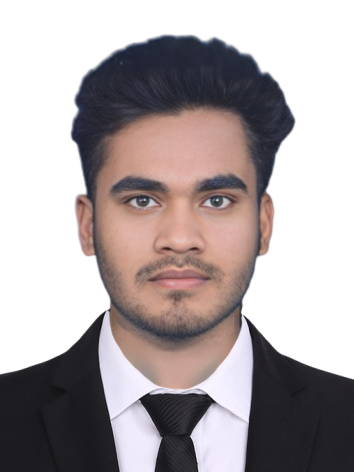
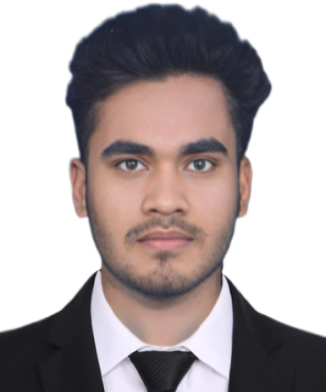
Oulining changes

diff --git a/src/Experience.js b/src/Experience.js
@@ -7,19 +7,19 @@ function Experience() {
     <div className='experience' id='experience' ><hr></hr><h1>Experience</h1>
         <div><h2 className='post'>CO-FOUNDER & CTO</h2>
             AM Hostel
-            <p className='description'>A academic startup to build India largest academic hostel chain with latest & affordable accomodation</p>
+            <p className='description'>An academic startup in India aims to establish the country's largest chain of academic hostels, offering modern and affordable accommodations. The venture targets students and scholars, providing a secure and supportive living environment with up-to-date amenities. By revolutionizing the way students experience their academic journey, the initiative addresses accommodation challenges and ensures comfortable living spaces that foster learning, growth, and community engagement.</p>
         </div>
         <div><h2 className='post'>Front-end UI/UX Developer</h2>
             JTEN Technologies
-            <p className='description'>A academic startup to build India largest academic hostel chain with latest & affordable accomodation</p>
+            <p className='description'>As a Front-end UI/UX Developer, I possess extensive experience in crafting captivating user interfaces and enriching user experiences. Proficient in HTML, CSS, and JavaScript, I have successfully translated design concepts into interactive and responsive web applications. My expertise lies in creating visually appealing layouts, ensuring seamless navigation, and optimizing overall user engagement. With a keen eye for detail and a user-centric approach, I continuously strive to deliver innovative and impactful digital solutions.</p>
+        </div>
+        <div><h2 className='post'>CMDB ANALYST</h2>
+            HCL Technlogies
+            <p className='description'>As a CMDB Analyst, I possess extensive experience in managing and maintaining CMDBs to support the organization's IT infrastructure. I have successfully implemented and updated configuration management processes, ensuring accurate documentation of IT assets and their relationships. My expertise includes data validation, normalization, and identification of configuration items. With a keen eye for detail and strong analytical skills, I have contributed to improved IT service management, efficiency, and data integrity.</p>
         </div>
         <div><h2 className='post'>SAM ANALYST</h2>
             HCL Technlogies
-            <p className='description'>A academic startup to build India largest academic hostel chain with latest & affordable accomodation</p>
-        </div>
-        <div><h2 className='post'>ANALYST</h2>
-            HCL Technlogies
-            <p className='description'>A academic startup to build India largest academic hostel chain with latest & affordable accomodation</p>
+            <p className='description'>As an IT Asset Management Analyst, I have a proven track record of efficiently managing and optimizing IT assets throughout their lifecycle. My expertise includes inventory tracking, procurement, and vendor management. I am skilled in implementing asset management systems, conducting audits, and ensuring compliance with policies and procedures. With a meticulous approach, I have contributed to cost savings, risk reduction, and streamlined operations. My commitment to accuracy and organization enables me to effectively support the organization's IT infrastructure and drive process improvements.</p>
         </div>
     </div>
   )

diff --git a/src/Components/Nav.js b/src/Components/Nav.js
@@ -3,7 +3,7 @@ import { Image, VStack, Icon, Text, Box,  HStack, Link, Stack } from '@chakra-ui
 import { AiFillHome, AiOutlineProject, AiFillTrophy } from "react-icons/ai";
 import { TbCertificate } from "react-icons/tb";
 import { FiSettings } from "react-icons/fi";
-import Me from '../Assets/IMG_20200618_120529n_edited.webp'
+import DP from '../Assets/shubham professional white bg.png'
 
 
 function Nav() {
@@ -11,7 +11,7 @@ function Nav() {
     <>
     <Stack id="sidebar">
       <VStack id="bar" width="300px" height="1080px" >
-        <Image className="me" src={Me} />
+        <Image className="me" src={DP} />
         <Box><Link href="#home" className="nav"><HStack mt='30%'><Icon as={AiFillHome} boxSize="40px" color="#551a8b"></Icon><Text color='white'>Home</Text></HStack></Link>
         <Link href='#experience' className="nav"><HStack mt='10%'><Icon  as={AiFillTrophy} boxSize="40px" color="#551a8b"></Icon><Text color='white'>Experience</Text></HStack></Link>
         <Link href='#education' className="nav"><HStack mt='10%'><Icon as={TbCertificate} boxSize="40px" color="#551a8b"></Icon><Text color='white'>Education</Text></HStack></Link>

diff --git a/src/index.css b/src/index.css
@@ -71,12 +71,12 @@ letter-spacing : 2.5px;
 color : grey;
 }
 .me {
-margin-top : 60%;
+margin-top : 30%;
 height : 200px;
 width : 200px;
 border : 5px;
 border-style : solid;
-border-color : white;
+border-color : green;
 border-radius : 50%;
 }
 #bar {
